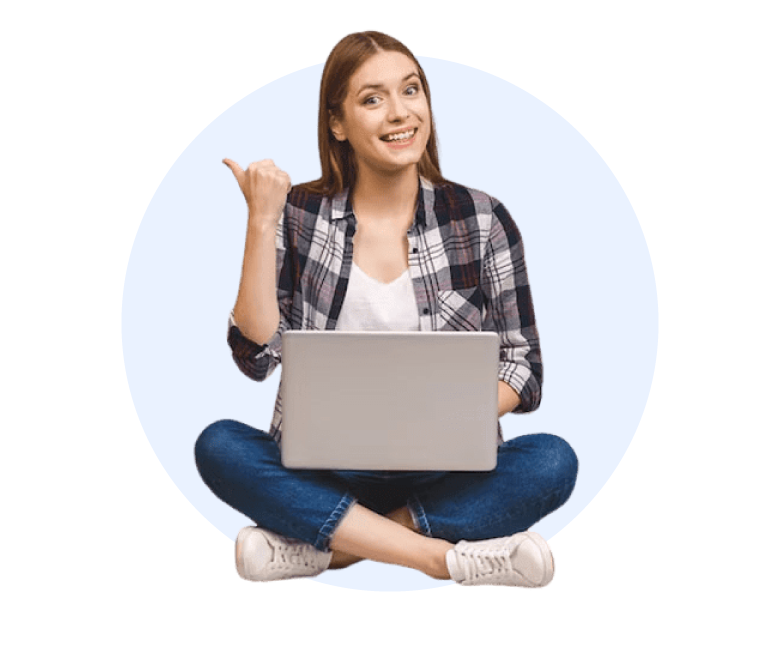
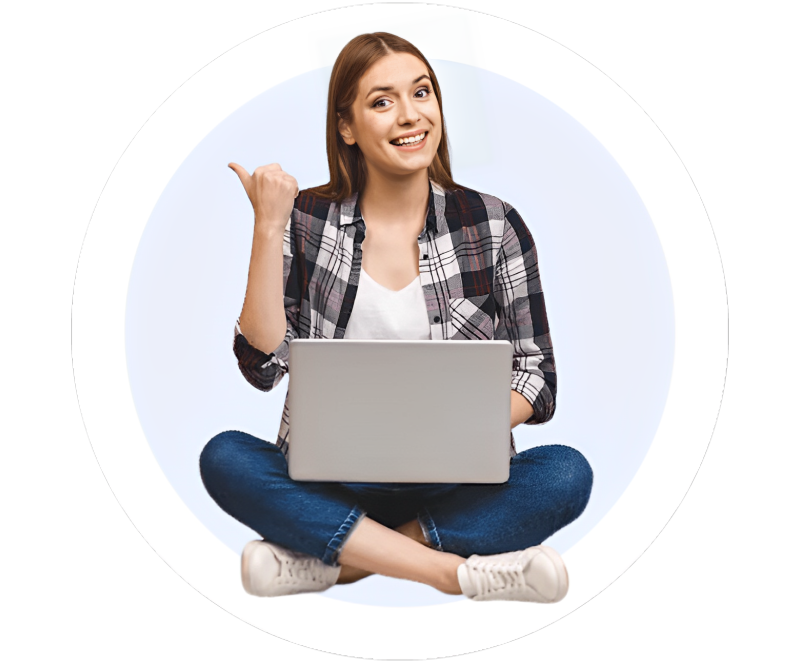
Happy student

diff --git a/assets/css/main.css b/assets/css/main.css
@@ -45,8 +45,8 @@
   --nav-dropdown-background-color: #ffffff;
   --nav-mobile-background-color: #ffffff;
   --Top-Navbar-background-color: #212832;
-  /* --hero-background-color: #37517e; */
-  --hero-background-color: #dcebfe;
+  --hero-background-color: #37517e;
+  /* --hero-background-color: #dcebfe; */
 }
 
 /* Smooth scroll */
@@ -699,6 +699,7 @@ section {
   font-weight: 700;
   font-size: 24px;
   line-height: 28px;
+  letter-spacing: 0.20000000298023224px;
 }
 #hero .course-view .course-view-items h6 {
   font-family: var(--Bangla-font);
@@ -707,6 +708,34 @@ section {
   font-weight: 500;
   margin-bottom: 0px;
   line-height: 20px;
+}
+#hero .happy-student {
+  background: #eaf2ff;
+  border-radius: 14px;
+  box-shadow: 10px 0 60px rgba(75, 131, 252, 0.15);
+  padding: 20px;
+  text-align: center;
+  display: inline-block;
+}
+#hero .happy-student h4 {
+  font-family: var(--default-font);
+  font-weight: 600;
+}
+#hero .happy-student .avatars {
+  display: flex;
+  margin: auto;
+  padding: 0px;
+  flex-direction: row;
+  padding-left: 10px;
+}
+#hero .happy-student .avatars img {
+  border: 2px solid #eaf2ff;
+  border-radius: 100%;
+  margin-left: -10px;
+  height: 30px;
+  width: 30px;
+  line-height: 30px;
+  text-align: center;
 }
 
 @media (max-width: 991px) {
@@ -763,7 +792,7 @@ section {
     padding: 10px 24px 11px 24px;
   }
 }
-@keyframes up-down {
+/* @keyframes up-down {
   0% {
     transform: translateY(10px);
   }
@@ -771,7 +800,7 @@ section {
   100% {
     transform: translateY(-10px);
   }
-}
+} */
 
 /*--------------------------------------------------------------
 # Footer

diff --git a/index.html b/index.html
@@ -182,7 +182,23 @@
           </div>
         </div>
         <div class="col-lg-6 order-1 order-lg-2 hero-img">
-          <img src="assets/img/hero-img.png" class="img-fluid animated" alt="" loading="lazy">
+          <img src="assets/img/Hero-Side-Image.png" class="img-fluid animated" alt="Hero-image" loading="lazy">
+          <div class="happy-student">
+            <h4>40k Happy Students</h4>
+            <div class="avatars">
+              <img src="assets/img/avatars/partner1.jpg" loading="lazy" alt="avatars">
+              <img src="assets/img/avatars/partner2.jpg" loading="lazy" alt="avatars">
+              <img src="assets/img/avatars/partner3.jpg" loading="lazy" alt="avatars">
+              <img src="assets/img/avatars/partner4.jpg" loading="lazy" alt="avatars">
+              <img src="assets/img/avatars/partner5.jpg" loading="lazy" alt="avatars">
+              <img src="assets/img/avatars/partner6.jpg" loading="lazy" alt="avatars">
+              <img src="assets/img/avatars/partner7.jpg" loading="lazy" alt="avatars">
+              <img src="assets/img/avatars/partner8.jpg" loading="lazy" alt="avatars">
+              <img src="assets/img/avatars/partner9.jpg" loading="lazy" alt="avatars">
+              <img src="assets/img/avatars/partner10.jpg" loading="lazy" alt="avatars">
+              <img src="assets/img/avatars/partner11.jpg" loading="lazy" alt="avatars">
+            </div>
+          </div>
         </div>
       </div>
 
